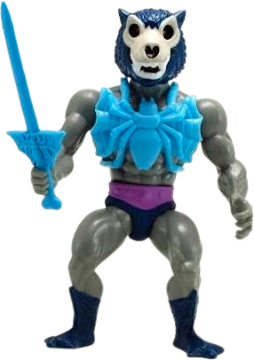
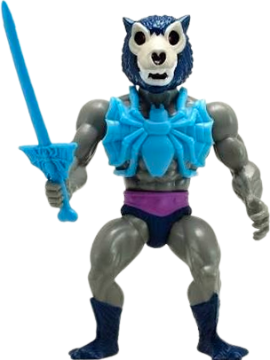
Photos: TERROR WOLF (super7-cl-v-004)

diff --git a/photos.js b/photos.js
@@ -2846,8 +2846,8 @@ window.MOTU_PHOTOS = {
    "img/characters/super7-cl-v-004-cb.webp?v=phmq5z",
    "img/characters/super7-cl-v-004-2.webp?v=phmq5z"
   ],
-  "preview": "img/characters/super7-cl-v-004-shelf.png?v=pi43y2",
-  "thumb": "img/characters/super7-cl-v-004-thumb.webp?v=pi43y2"
+  "preview": "img/characters/super7-cl-v-004-shelf.png?v=pi63po",
+  "thumb": "img/characters/super7-cl-v-004-thumb.webp?v=pi63po"
  },
  "super7-cl-v-005": {
   "images": [
